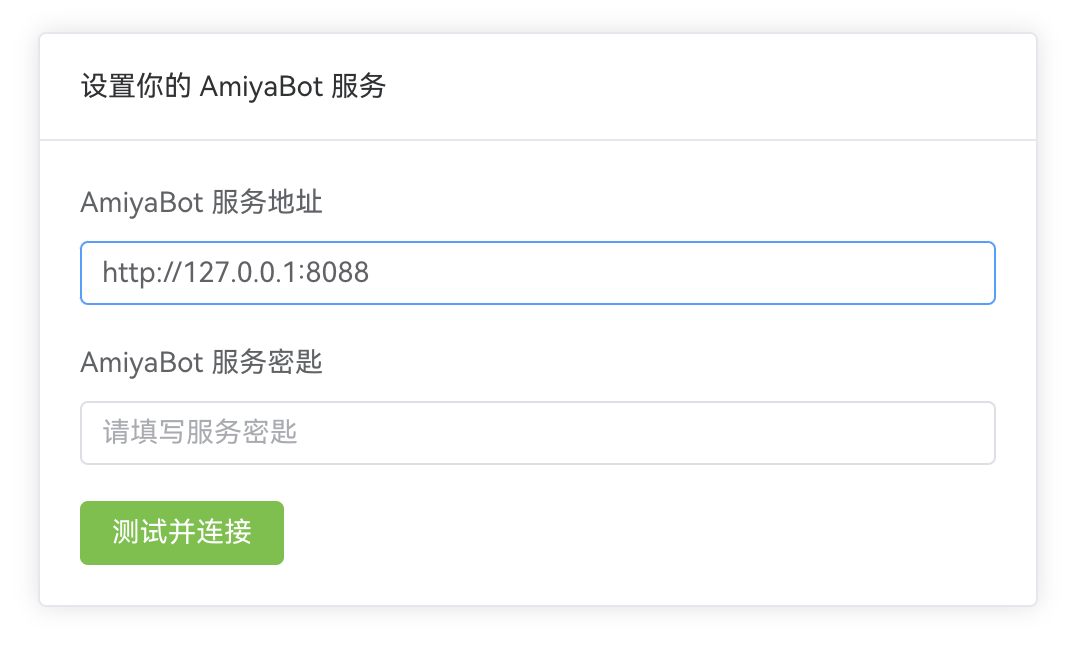
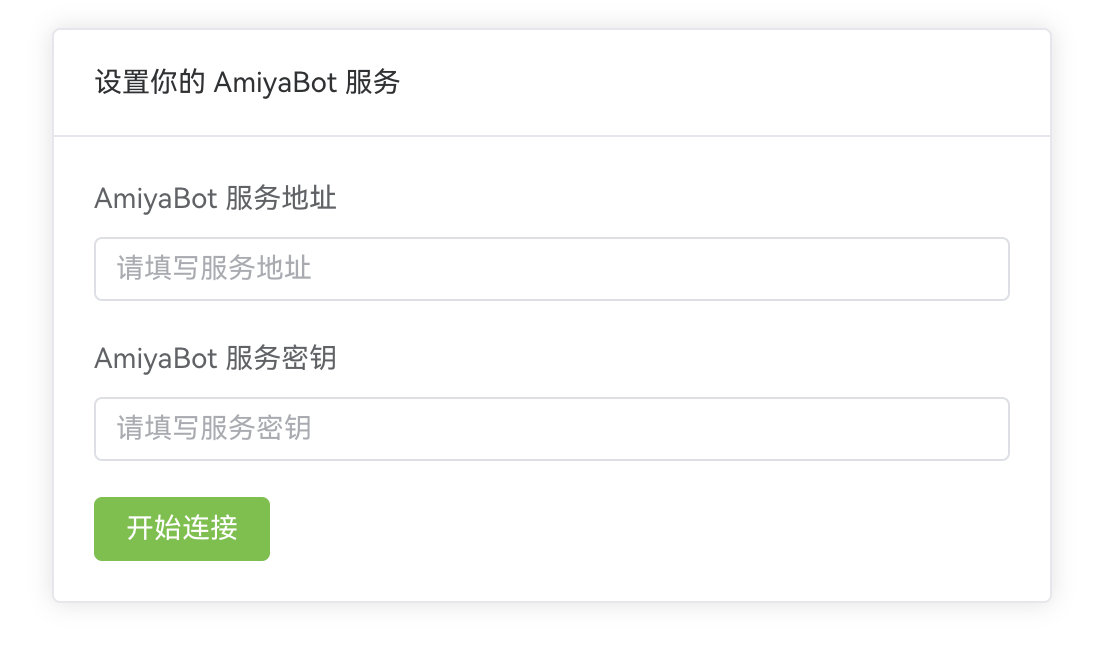
update docs

diff --git a/docs/.vitepress/nav/sidebar.js b/docs/.vitepress/nav/sidebar.js
@@ -62,6 +62,7 @@ export default {
                 {text: '说明', link: '/develop/advanced/index.md'},
                 {text: '生命周期', link: '/develop/advanced/lifeCycle.md'},
                 {text: '定时任务', link: '/develop/advanced/timedTask.md'},
+                {text: '事件总线', link: '/develop/advanced/eventBus.md'},
                 {text: '日志模块', link: '/develop/advanced/logger.md'},
                 {text: '加载插件', link: '/develop/advanced/loadPlugins.md'}
             ]

diff --git a/docs/guide/deploy/faq/commonProblem.md b/docs/guide/deploy/faq/commonProblem.md
@@ -88,17 +88,17 @@ work on the current change (see also: git help everyday)
 
 > 我不知道服务地址应该填什么
 
-+ 如果你访问控制台的设备与部署兔兔的设备为同一台的话，通常你应该填写的就是`http://127.0.0.1:8088`，而服务密匙留空
++ 如果你访问控制台的设备与部署兔兔的设备为同一台的话，通常你应该填写的就是`http://127.0.0.1:8088`，而服务密钥留空
 + 如果你访问控制台的设备与部署兔兔的设备不是同一台，但是在同一个局域网内（通常指在同一个家里）
     + 参照[文档](/guide/deploy/console/index.html#公网-局域网访问)将 `host` 修改为 `0.0.0.0`
     + 参考[此文章](https://jingyan.baidu.com/article/ad310e80fd60c65949f49e9f.html)查询你部署兔兔的设备的局域网ip（通常是以
       192 开头的一串数字）
     + 控制台中应填写 `http://[你查询到的ip]:8088`
-    + 而服务密匙留空
+    + 而服务密钥留空
 + 如果你将兔兔部署在云服务器上，在另一台设备上访问控制台，那么事情将会变得有些棘手，首先你需要参照上面的指示将 `host`
   修改为 `0.0.0.0`，其次你需要给云服务器运营商的防火墙设置一个入站规则（关于如何做到这一点,请自行百度），通常端口是
   8088，协议为tcp，并且操作系统内也需要设置入站规则（也请自行百度）
-    + 提示：通过公网访问，可能有设备被攻击的风险，请自行配置服务密匙（在 `config/server.yaml` 中修改 `authKey`
+    + 提示：通过公网访问，可能有设备被攻击的风险，请自行配置服务密钥（在 `config/server.yaml` 中修改 `authKey`
       的值并填入控制台的服务密钥中）。更进一步，推荐使用Nginx反代服务提供更高的安全性，请参考[文档](/guide/deploy/console/index.html#公网-局域网访问)
 
 ## 控制台中实例无法连接

diff --git a/docs/develop/advanced/eventBus.md b/docs/develop/advanced/eventBus.md
@@ -1,0 +1,65 @@
+# 事件总线
+
+AmiyaBot 提供了简易的全局事件总线的方法
+
+```python
+from amiyabot import event_bus
+```
+
+## 发布事件
+
+**publish**
+
+| 参数名        | 类型     | 释义   | 默认值  |
+|------------|--------|------|------|
+| event_name | String | 事件名  |      |
+| data       | Any    | 事件数据 | None |
+
+```python
+event_bus.publish('myEvent', data=...)
+```
+
+## 订阅事件
+
+**subscribe**
+
+| 参数名        | 类型       | 释义       | 默认值  |
+|------------|----------|----------|------|
+| event_name | String   | 事件名      |      |
+| method     | Callable | 响应方法（可选） | None |
+
+::: tip 提示<br>
+响应方法同时支持**异步**和**同步**函数
+:::
+
+通过装饰器订阅事件
+
+```python
+@event_bus.subscribe('myEvent')
+async def event_handler(data):
+    ...
+```
+
+也可以通过传入响应函数订阅事件
+
+```python
+async def event_handler(data):
+    ...
+
+event_bus.subscribe('myEvent', event_handler)
+```
+
+## 取消订阅
+
+取消订阅需要传入**订阅时的响应方法对象**（且需要保证其内存地址是一致的）
+
+**unsubscribe**
+
+| 参数名        | 类型       | 释义   | 默认值  |
+|------------|----------|------|------|
+| event_name | String   | 事件名  |      |
+| method     | Callable | 响应方法 | None |
+
+```python
+event_bus.unsubscribe('myEvent', event_handler)
+```

diff --git a/docs/guide/deploy/yourChoose.md b/docs/guide/deploy/yourChoose.md
@@ -23,13 +23,13 @@ QQ 机器人目前分为两种，一种是由腾讯官方运营的 [频道机器
 
 选择其中一个进行部署即可。
 
-### 使用 go-cqhttp
+## 使用 go-cqhttp
 
 推荐你直接在 [go-cqhttp 官网](https://docs.go-cqhttp.org/) 按照说明进行部署。如果你能力有限，可以点击下面的链接，下载已经配置好的一键包。
 
 https://cos.amiyabot.com/tools/go-cqhttp.zip
 
-该一键包为 go-cqhttp 的 [v1.0.0-rc3](https://github.com/Mrs4s/go-cqhttp/releases/tag/v1.0.0-rc3)
+该一键包为 go-cqhttp 的 [v1.0.0](https://github.com/Mrs4s/go-cqhttp/releases/tag/v1.0.0)
 版本，省去了首次启动后生成配置文件和启动批处理脚本的步骤，并修改了配置文件。
 
 ::: tip 提示<br>
@@ -54,7 +54,7 @@ HTTP端口：8080
 WS端口：8060
 ```
 
-### 使用 mirai-api-http
+## 使用 mirai-api-http
 
 mirai-api-http 有一定的部署难度，需要你拥有一定的计算机科学基础。但对比其他第三方服务，mirai 在很多方面都占有优势。
 

diff --git a/docs/guide/deploy/console/index.md b/docs/guide/deploy/console/index.md
@@ -9,13 +9,11 @@ port: 8088
 authKey:
 ```
 
-authKey 为连接控制台时的密匙，默认不需要。
+authKey 为连接控制台时的密钥，默认不需要。
 
-::: danger 危险
-
+::: danger 危险<br>
 **当你试图将控制台暴露至公网时，请务必设定 authKey！**
 **如果不这么做，你的服务将面临极大的安全风险！因此造成的一切后果由你自行承担！**
-
 :::
 
 ## 连接
@@ -40,5 +38,4 @@ host: 0.0.0.0
 **如果不这么做，你的服务将面临极大的安全风险！因此造成的一切后果由你自行承担！**
 :::
 
-我们的团队成员 Initial-heart
-为你提供了 [一篇通过 Nginx 反向代理加密连接的博客](https://www.initbili.top/2022/84452dac2fe6/)，你可以根据这篇博客对你的连接进行加密。
+我们的团队成员 Initial-heart 为你提供了 [一篇通过 Nginx 反向代理加密连接的博客](https://www.initbili.top/2022/84452dac2fe6/)，你可以根据这篇博客对你的连接进行加密。

diff --git a/docs/develop/basic/chainBuild/forward.md b/docs/develop/basic/chainBuild/forward.md
@@ -74,10 +74,10 @@ async def _(data: Message):
     await forward2.send()
 ```
 
-## 发送
-
-**send**
+## 发送 & 撤回
 
 ```python
-await forward.send()
+callback = await forward.send()  # 发送
+if callback:
+    await callback.recall()  # 撤回
 ```

diff --git a/docs/develop/basic/recallMessage.md b/docs/develop/basic/recallMessage.md
@@ -111,6 +111,4 @@ async def _(data: Message):
 
 ### 撤回合并转发的消息
 
-::: warning 温馨提示<br>
-合并转发暂不支持撤回，请关注后续更新！
-:::
+[撤回合并转发](/develop/basic/chainBuild/forward.html#发送-撤回)
